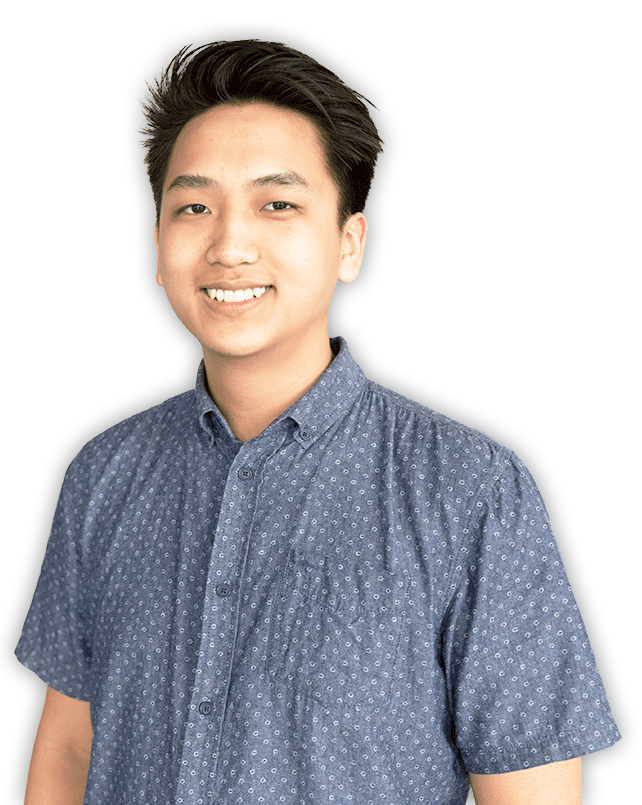
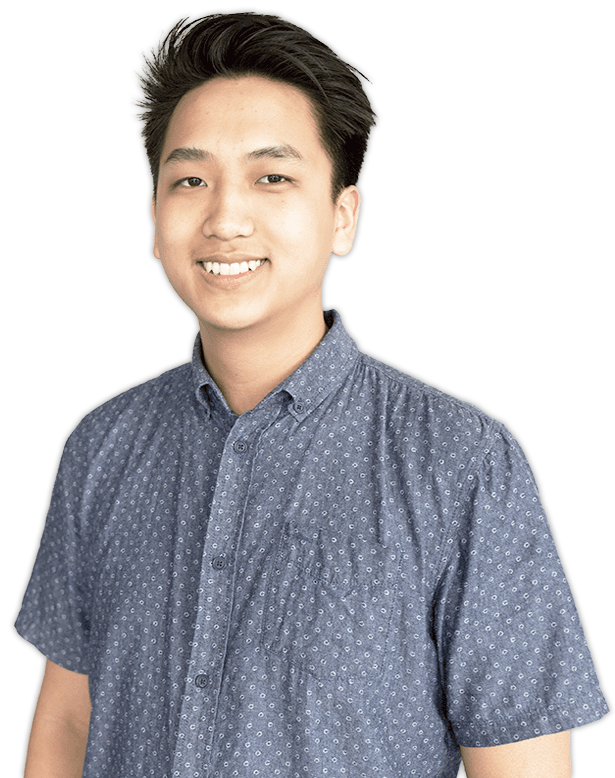
Redesign draft 1

Changed region(s): [[0.0, 0.0, 1.0, 1.0]]

diff --git a/app/styles/app.scss b/app/styles/app.scss
@@ -16,12 +16,14 @@ $c-gray: rgba(#fff, 0.5);
 @import 'media/phone-contact';
 @import 'media/phone-projects';
 @import url('https://fonts.googleapis.com/css?family=Work+Sans:400,700');
+@import url('https://fonts.googleapis.com/css?family=Old+Standard+TT:700');
 
 .nav {
   display: flex;
-  justify-content: space-between;
+  justify-content: center;
   width: 100%;
   margin: 0 auto;
+  text-transform: uppercase;
 
   &-home {
 
@@ -32,6 +34,7 @@ $c-gray: rgba(#fff, 0.5);
     align-items: center;
 
     &__item {
+      color: #939393;
       margin: 1rem;
     }
   }

diff --git a/app/styles/about.scss b/app/styles/about.scss
@@ -3,7 +3,7 @@
   width: 35%;
   height: 80vh;
   position: absolute;
-  right: 10rem;
+  right: 10%;
   transform: skew(0deg,-5deg) translateY(7%);
 }
 
@@ -11,7 +11,7 @@
   width: 35%;
   position: absolute;
   bottom: 0;
-  right: 15%;
+  right: 10%;
 }
 
 .about-text {
@@ -20,9 +20,14 @@
   top: 15%;
 }
 
+.about-title {
+  font-size: 4rem;
+  margin: 0;
+}
+
 .bio {
   max-width: 30rem;
   margin: 0.5rem 0 0 0;
   line-height: 28px;
-  text-transform: none;
+
 }

diff --git a/app/styles/home.scss b/app/styles/home.scss
@@ -1,8 +1,8 @@
 .headshot {
-  width: 35%;
+  width: 48%;
   position: absolute;
   bottom: 0;
-  right: 15%;
+  right: 10%;
 }
 
 .home-text {
@@ -15,13 +15,17 @@
 }
 
 .title {
-  font-weight: 900;
-  font-size: 4rem;
+  font-size: 5rem;
   margin: 0;
+  font-family: 'Old Standard TT';
+
 }
 
 .subtitle {
-  font-size: 1.5rem;
+  font-size: 1.3rem;
+  margin: 1rem;
+  margin-bottom: 1.6rem;
+  text-transform: uppercase;
 }
 
 .see-work {

diff --git a/app/transitions.js b/app/transitions.js
@@ -1,7 +1,13 @@
 export default function(){
   this.transition(
-    this.fromRoute('home'),
+    // this.fromRoute('home'),
     this.toRoute('about'),
+    this.use('fade'),
+    this.reverse('toRight')
+  )
+  this.transition(
+    // this.fromRoute('home'),
+    this.toRoute('home'),
     this.use('toLeft'),
     this.reverse('toRight')
   )

diff --git a/app/styles/hover.scss b/app/styles/hover.scss
@@ -36,6 +36,13 @@
   }
 }
 
+.hvr-dark {
+  &:hover {
+    color: black;
+    transition-duration: 0.5s;
+  }
+}
+
 .hvr-grow {
   // display: inline-block;
   vertical-align: middle;

diff --git a/app/styles/_reset.scss b/app/styles/_reset.scss
@@ -1,7 +1,6 @@
 body {
   margin: 0;
   font-family: 'Work Sans', sans-serif;
-  text-transform: uppercase;
   background: #e9e9e9;
 }
 

diff --git a/app/styles/projects.scss b/app/styles/projects.scss
@@ -41,7 +41,7 @@
   // }
 
   &__description {
-    text-transform: none;
+    
   }
 
   &__info {
